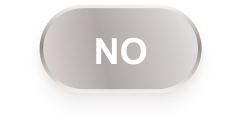
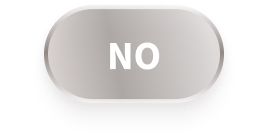
Restore exact NEW15/NEW16 typography positions and native button assets/sizes without touching scrolling text

Changed region(s): [[0.376, 0.288, 0.6074, 0.528], [0.8099, 0.216, 0.8388, 0.504], [0.8099, 0.528, 0.8388, 0.552]]

diff --git a/app.js b/app.js
@@ -218,7 +218,7 @@ function startNewTickers(){
   });
 }
 function newButton(label,action,x,y,disabled=false,size=null){
-  const source=label==='YES'?'yesButtonAlpha.png?v=rim-fff6f2-20261104':label==='NO'?'noButtonAlpha.png':label==='TEST IT'?'testButtonAlpha.png?v=rim-fff6f2-20261104':'nextButtonAlpha.png';
+  const source=label==='YES'?'yesButtonAlpha.png?v=original-new15-20261104':label==='NO'?'noButtonAlpha.png?v=original-new15-20261104':label==='TEST IT'?'testButtonAlpha.png?v=original-new16-20261104':'nextButtonAlpha.png';
   const wide=size?.[0]??(label==='TEST IT'?140:label==='NEXT'?67:134);
   const high=size?.[1]??69;
   return '<button class="lay new-ui-button'+(disabled?' disabled':'')+'" '+box(x,y,wide,high)+' data-action="'+action+'" aria-label="'+label+'" '+(disabled?'disabled':'')+'><img src="assets/figma-current/hd/'+source+'" alt=""></button>';
@@ -256,9 +256,9 @@ function newPrescriptionMarkup(page=s.page){
     h+='<div class="lay new-orange-gradient grad-two" '+box(-6,-38,942,510)+' aria-hidden="true"><div></div></div>';
     h+='<div class="lay new-orange-gradient grad-three" '+box(-12,-45,942,510)+' aria-hidden="true"><div></div></div>';
     h+='<div class="lay new-orange-gradient grad-four" '+box(-4,-31,942,510)+' aria-hidden="true"><div></div></div>';
-    h+=text(page==='15'?'DO YOU AGREE TO<br>TEST IT ON YOU?':'Thank you<br>for Prescribing!',page==='15'?513:514,151,264,64,'new-consent-copy');
-    if(page==='15')h+=newButton('YES','ar',522,241,false,[112,60])+newButton('NO','decline',633,241,false,[112,60]);
-    else h+=newButton('TEST IT','ar',579,241,false,[134,60]);
+    h+=text(page==='15'?'DO YOU AGREE TO<br>TEST IT ON YOU?':'Thank you<br>for Prescribing',page==='15'?513:514,262,264,64,'new-consent-copy');
+    if(page==='15')h+=newButton('YES','ar',522,343,false,[134,69])+newButton('NO','decline',633,343,false,[134,69]);
+    else h+=newButton('TEST IT','ar',579,343,false,[140,69]);
   }
   return h;
 }

diff --git a/index.html b/index.html
@@ -15,6 +15,6 @@
   <script src="figure-bounds-v2.js?v=doll-front-back-1"></script>
   <script src="morph.js?v=facial-flow-two-originals-20261104-7"></script>
   <script src="figma-glass-text.js?v=syringe-native-newweb7-graded-20261104-53"></script>
-  <script src="app.js?v=consent-type-geometry-figma-20261104-19"></script>
+  <script src="app.js?v=original-new15-16-exact-20261104-20"></script>
 </body>
 </html>
